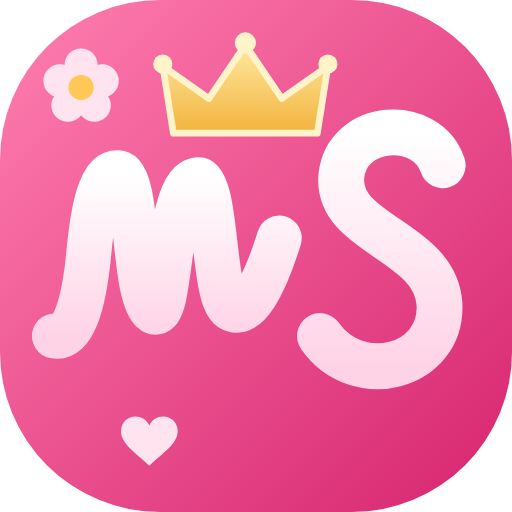
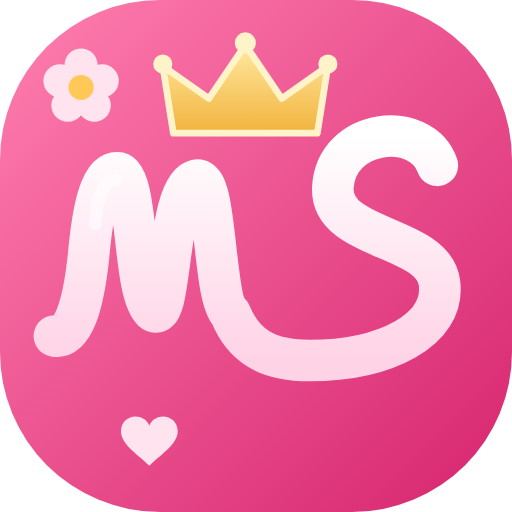
Ícone: M e S ligados em uma letra só
Claude-Session: https://claude.ai/code/session_01Jf1jNJdkTk3N6YZyyR6Hu3

diff --git a/index.html b/index.html
@@ -9,7 +9,7 @@
 <link rel="icon" type="image/png" href="icon-192.png">
 <link rel="apple-touch-icon" href="apple-touch-icon.png">
 <style>:root{color-scheme:light}html,body{margin:0}body{font-family:system-ui,sans-serif}[hidden]{display:none!important}img{max-width:100%}</style>
-<script>window.MM_VER="1794254817";</script>
+<script>window.MM_VER="1794254888";</script>
 <script src="supabase.js"></script>
 <script>window.sb=supabase.createClient("https://tobdkptlewiwemafphyf.supabase.co","eyJhbGciOiJIUzI1NiIsInR5cCI6IkpXVCJ9.eyJpc3MiOiJzdXBhYmFzZSIsInJlZiI6InRvYmRrcHRsZXdpd2VtYWZwaHlmIiwicm9sZSI6ImFub24iLCJpYXQiOjE3OTQxNDc1NTYsImV4cCI6MjEwOTcyMzU1Nn0.du1wM-BLPDdWwL1jofBVwTh7lJbzHz2nEXdf1Gl1BJo",{auth:{persistSession:true,autoRefreshToken:true,detectSessionInUrl:true}});</script>
 </head><body>
@@ -452,7 +452,7 @@ nav button.fab[aria-current="page"],:root:not([data-tema=suave]) nav button.fab[
 
 <div class="app">
   <header>
-    <div class="brand"><svg class="logo" viewBox="0 0 48 48" aria-hidden="true"><defs><linearGradient id="lgmH" x1="0" y1="0" x2="1" y2="1"><stop offset="0" stop-color="#FF7FB0"/><stop offset="1" stop-color="#D6246E"/></linearGradient><linearGradient id="lgwH" x1="0" y1="0" x2="0" y2="1"><stop offset="0" stop-color="#fff"/><stop offset="1" stop-color="#FFD3E6"/></linearGradient><linearGradient id="cgH" x1="0" y1="0" x2="0" y2="1"><stop offset="0" stop-color="#FFE9A0"/><stop offset="1" stop-color="#F2B33D"/></linearGradient></defs><rect width="48" height="48" rx="15" fill="url(#lgmH)"/><g fill="none" stroke="url(#lgwH)" stroke-linecap="round" stroke-linejoin="round"><path transform="translate(0 7.7) scale(.68)" stroke-width="6.2" d="M7.5 35 C10 35.5 11.5 31 12.2 24 C12.8 17.5 13.8 12.5 16.2 12.5 C19.2 12.5 18.2 29 21 31.5 C23.8 34 22.8 14.5 27 13.5 C30 12.8 29.2 29.5 31.8 31.2 C34 32.6 36.5 28 38.5 21.5"/><path stroke-width="4.3" d="M41.5 15.5 C40 11 32.5 11.5 32 16.5 C31.5 22 40.8 22.5 41.2 28.5 C41.5 34.5 33.5 36.5 30 31.5"/></g><g transform="translate(23 9.6) scale(.9)"><path d="M-7.5 3.2 L-8.6 -3.8 L-3.8 -0.4 L0 -6 L3.8 -0.4 L8.6 -3.8 L7.5 3.2 Z" fill="url(#cgH)" stroke="#FFF3C9" stroke-width=".7" stroke-linejoin="round"/><circle cx="0" cy="-6.2" r="1.1" fill="#FFF3C9"/><circle cx="-8.6" cy="-4" r="1" fill="#FFF3C9"/><circle cx="8.6" cy="-4" r="1" fill="#FFF3C9"/></g><g transform="translate(7.6 8.2) scale(.62)"><g fill="#FFE3EE"><circle cx="0" cy="-3.4" r="2.5"/><circle cx="3.2" cy="-1" r="2.5"/><circle cx="2" cy="2.7" r="2.5"/><circle cx="-2" cy="2.7" r="2.5"/><circle cx="-3.2" cy="-1" r="2.5"/></g><circle r="1.9" fill="#FFC857"/></g><path transform="translate(14 41) scale(.7)" fill="#FFE3EE" d="M0 -1.6c-.9-1.9-3.8-1.4-3.8.8 0 1.7 2.1 3 3.8 4.6 1.7-1.6 3.8-2.9 3.8-4.6 0-2.2-2.9-2.7-3.8-.8z"/></svg><span class="wm">Mavie Skin</span></div>
+    <div class="brand"><svg class="logo" viewBox="0 0 48 48" aria-hidden="true"><defs><linearGradient id="lgmH" x1="0" y1="0" x2="1" y2="1"><stop offset="0" stop-color="#FF7FB0"/><stop offset="1" stop-color="#D6246E"/></linearGradient><linearGradient id="lgwH" x1="0" y1="0" x2="0" y2="1"><stop offset="0" stop-color="#fff"/><stop offset="1" stop-color="#FFD3E6"/></linearGradient><linearGradient id="cgH" x1="0" y1="0" x2="0" y2="1"><stop offset="0" stop-color="#FFE9A0"/><stop offset="1" stop-color="#F2B33D"/></linearGradient></defs><rect width="48" height="48" rx="15" fill="url(#lgmH)"/><g fill="none" stroke="url(#lgwH)" stroke-linecap="round" stroke-linejoin="round"><path stroke-width="3.9" d="M5.1 31.5 C6.8 31.8 7.8 28.8 8.3 24 C8.7 19.6 9.4 16.2 11 16.2 C13 16.2 12.4 27.4 14.3 29.1 C16.2 30.8 15.5 17.6 18.4 16.9 C20.4 16.4 19.9 27.8 21.6 29.4 C22.8 32.4 25 33.8 29 33.8 C36 33.8 41.8 31 41.2 26.5 C40.6 22 31 22.6 31.2 17.6 C31.5 12 39.5 11.2 41 15.5"/><path stroke-width="1.2" stroke="#fff" stroke-opacity=".5" d="M8.9 21 C9.2 18 9.8 16.8 10.8 16.9"/></g><g transform="translate(23 9.6) scale(.9)"><path d="M-7.5 3.2 L-8.6 -3.8 L-3.8 -0.4 L0 -6 L3.8 -0.4 L8.6 -3.8 L7.5 3.2 Z" fill="url(#cgH)" stroke="#FFF3C9" stroke-width=".7" stroke-linejoin="round"/><circle cx="0" cy="-6.2" r="1.1" fill="#FFF3C9"/><circle cx="-8.6" cy="-4" r="1" fill="#FFF3C9"/><circle cx="8.6" cy="-4" r="1" fill="#FFF3C9"/></g><g transform="translate(7.6 8.2) scale(.62)"><g fill="#FFE3EE"><circle cx="0" cy="-3.4" r="2.5"/><circle cx="3.2" cy="-1" r="2.5"/><circle cx="2" cy="2.7" r="2.5"/><circle cx="-2" cy="2.7" r="2.5"/><circle cx="-3.2" cy="-1" r="2.5"/></g><circle r="1.9" fill="#FFC857"/></g><path transform="translate(14 41) scale(.7)" fill="#FFE3EE" d="M0 -1.6c-.9-1.9-3.8-1.4-3.8.8 0 1.7 2.1 3 3.8 4.6 1.7-1.6 3.8-2.9 3.8-4.6 0-2.2-2.9-2.7-3.8-.8z"/></svg><span class="wm">Mavie Skin</span></div>
     <div class="tag" id="tag"></div>
   </header>
   <div id="ages" hidden></div>
@@ -515,7 +515,7 @@ const IC={
 };
 const ic=(n,s=20)=>`<svg class="ic" width="${s}" height="${s}" viewBox="0 0 24 24" aria-hidden="true">${IC[n]}</svg>`;
 const ICONS={hoje:ic('home',22),pele:ic('face',22),rotina:ic('routine',22),produtos:ic('bottle',22),escanear:ic('scan',22),mais:ic('more',22)};
-const LOGO=`<svg class="logo" viewBox="0 0 48 48" aria-hidden="true"><defs><linearGradient id="lgmL" x1="0" y1="0" x2="1" y2="1"><stop offset="0" stop-color="#FF7FB0"/><stop offset="1" stop-color="#D6246E"/></linearGradient><linearGradient id="lgwL" x1="0" y1="0" x2="0" y2="1"><stop offset="0" stop-color="#fff"/><stop offset="1" stop-color="#FFD3E6"/></linearGradient><linearGradient id="cgL" x1="0" y1="0" x2="0" y2="1"><stop offset="0" stop-color="#FFE9A0"/><stop offset="1" stop-color="#F2B33D"/></linearGradient></defs><rect width="48" height="48" rx="15" fill="url(#lgmL)"/><g fill="none" stroke="url(#lgwL)" stroke-linecap="round" stroke-linejoin="round"><path transform="translate(0 7.7) scale(.68)" stroke-width="6.2" d="M7.5 35 C10 35.5 11.5 31 12.2 24 C12.8 17.5 13.8 12.5 16.2 12.5 C19.2 12.5 18.2 29 21 31.5 C23.8 34 22.8 14.5 27 13.5 C30 12.8 29.2 29.5 31.8 31.2 C34 32.6 36.5 28 38.5 21.5"/><path stroke-width="4.3" d="M41.5 15.5 C40 11 32.5 11.5 32 16.5 C31.5 22 40.8 22.5 41.2 28.5 C41.5 34.5 33.5 36.5 30 31.5"/></g><g transform="translate(23 9.6) scale(.9)"><path d="M-7.5 3.2 L-8.6 -3.8 L-3.8 -0.4 L0 -6 L3.8 -0.4 L8.6 -3.8 L7.5 3.2 Z" fill="url(#cgL)" stroke="#FFF3C9" stroke-width=".7" stroke-linejoin="round"/><circle cx="0" cy="-6.2" r="1.1" fill="#FFF3C9"/><circle cx="-8.6" cy="-4" r="1" fill="#FFF3C9"/><circle cx="8.6" cy="-4" r="1" fill="#FFF3C9"/></g><g transform="translate(7.6 8.2) scale(.62)"><g fill="#FFE3EE"><circle cx="0" cy="-3.4" r="2.5"/><circle cx="3.2" cy="-1" r="2.5"/><circle cx="2" cy="2.7" r="2.5"/><circle cx="-2" cy="2.7" r="2.5"/><circle cx="-3.2" cy="-1" r="2.5"/></g><circle r="1.9" fill="#FFC857"/></g><path transform="translate(14 41) scale(.7)" fill="#FFE3EE" d="M0 -1.6c-.9-1.9-3.8-1.4-3.8.8 0 1.7 2.1 3 3.8 4.6 1.7-1.6 3.8-2.9 3.8-4.6 0-2.2-2.9-2.7-3.8-.8z"/></svg>`;
+const LOGO=`<svg class="logo" viewBox="0 0 48 48" aria-hidden="true"><defs><linearGradient id="lgmL" x1="0" y1="0" x2="1" y2="1"><stop offset="0" stop-color="#FF7FB0"/><stop offset="1" stop-color="#D6246E"/></linearGradient><linearGradient id="lgwL" x1="0" y1="0" x2="0" y2="1"><stop offset="0" stop-color="#fff"/><stop offset="1" stop-color="#FFD3E6"/></linearGradient><linearGradient id="cgL" x1="0" y1="0" x2="0" y2="1"><stop offset="0" stop-color="#FFE9A0"/><stop offset="1" stop-color="#F2B33D"/></linearGradient></defs><rect width="48" height="48" rx="15" fill="url(#lgmL)"/><g fill="none" stroke="url(#lgwL)" stroke-linecap="round" stroke-linejoin="round"><path stroke-width="3.9" d="M5.1 31.5 C6.8 31.8 7.8 28.8 8.3 24 C8.7 19.6 9.4 16.2 11 16.2 C13 16.2 12.4 27.4 14.3 29.1 C16.2 30.8 15.5 17.6 18.4 16.9 C20.4 16.4 19.9 27.8 21.6 29.4 C22.8 32.4 25 33.8 29 33.8 C36 33.8 41.8 31 41.2 26.5 C40.6 22 31 22.6 31.2 17.6 C31.5 12 39.5 11.2 41 15.5"/><path stroke-width="1.2" stroke="#fff" stroke-opacity=".5" d="M8.9 21 C9.2 18 9.8 16.8 10.8 16.9"/></g><g transform="translate(23 9.6) scale(.9)"><path d="M-7.5 3.2 L-8.6 -3.8 L-3.8 -0.4 L0 -6 L3.8 -0.4 L8.6 -3.8 L7.5 3.2 Z" fill="url(#cgL)" stroke="#FFF3C9" stroke-width=".7" stroke-linejoin="round"/><circle cx="0" cy="-6.2" r="1.1" fill="#FFF3C9"/><circle cx="-8.6" cy="-4" r="1" fill="#FFF3C9"/><circle cx="8.6" cy="-4" r="1" fill="#FFF3C9"/></g><g transform="translate(7.6 8.2) scale(.62)"><g fill="#FFE3EE"><circle cx="0" cy="-3.4" r="2.5"/><circle cx="3.2" cy="-1" r="2.5"/><circle cx="2" cy="2.7" r="2.5"/><circle cx="-2" cy="2.7" r="2.5"/><circle cx="-3.2" cy="-1" r="2.5"/></g><circle r="1.9" fill="#FFC857"/></g><path transform="translate(14 41) scale(.7)" fill="#FFE3EE" d="M0 -1.6c-.9-1.9-3.8-1.4-3.8.8 0 1.7 2.1 3 3.8 4.6 1.7-1.6 3.8-2.9 3.8-4.6 0-2.2-2.9-2.7-3.8-.8z"/></svg>`;
 const TABS=[['hoje','Hoje'],['pele','Pele'],['escanear','Escanear'],['rotina','Rotina'],['produtos','Produtos'],['mais','Mais']];
 const AGES=[['20','Até 29 anos'],['30','30 a 39 anos'],['40','40 a 49 anos'],['50','50 anos ou mais']];
 const TIERS=[['econ','Econômico'],['mid','Intermediário'],['prem','Premium']];
